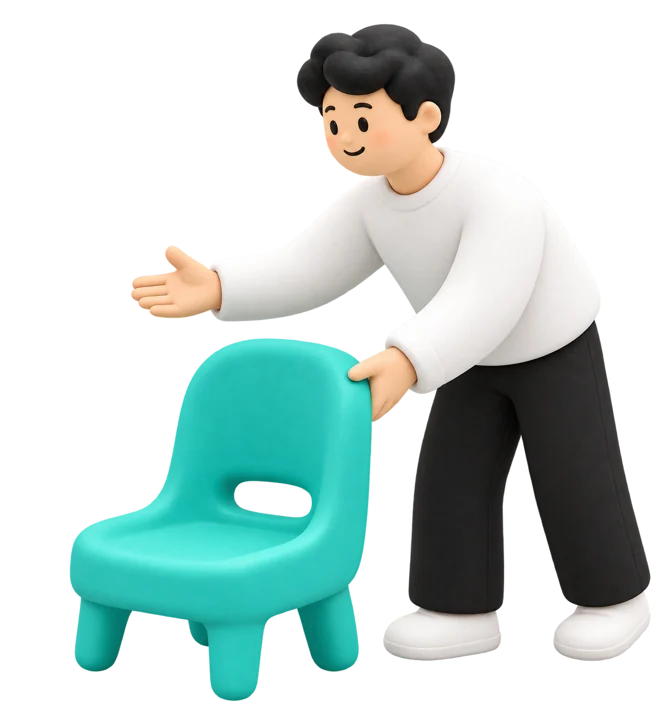
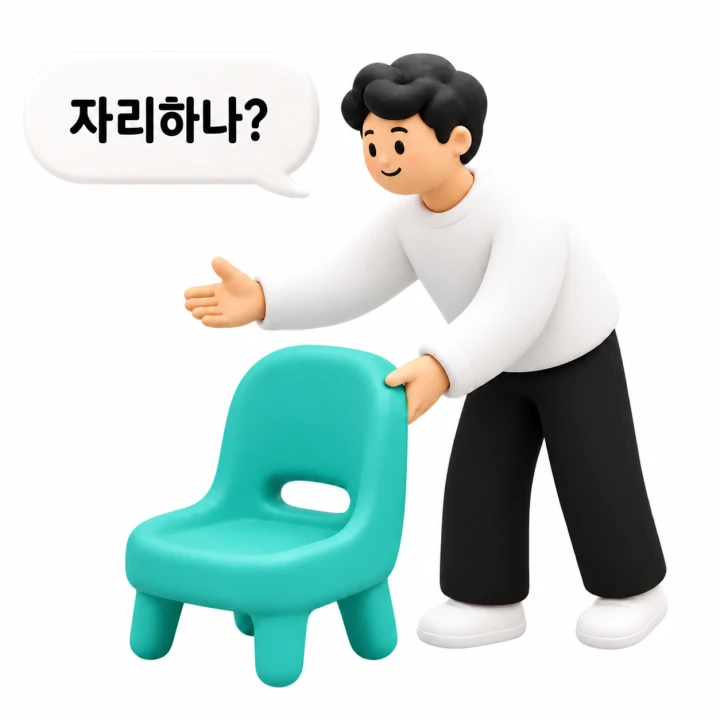
fix: 모집 상태 일러스트의 메시지와 크기를 맞춘다
Constraint: 말풍선 문구를 이미지에 포함하고 두 상태의 렌더 크기를 동일하게 유지
Confidence: high
Scope-risk: narrow
Directive: 모집 상태 이미지는 같은 720px 정사각형 캔버스와 동일한 CSS 크기를 유지
Tested: targeted Jest 2 tests; production webpack build; visual captures at 375, 768, 1280, and 1440
Not-tested: deployed environment

diff --git a/frontend/src/pages/groups/groups.css b/frontend/src/pages/groups/groups.css
@@ -567,40 +567,42 @@
 
 .group-recruitment-hero {
   position: relative;
-  isolation: isolate;
-  min-block-size: calc(var(--space-16) + var(--space-16) + var(--space-12));
+  display: grid;
+  min-block-size: calc(
+    var(--space-16) + var(--space-16) + var(--space-16) + var(--space-8)
+  );
+  align-content: start;
+  justify-items: end;
+  gap: var(--space-3);
   overflow: hidden;
 }
 
-.group-recruitment-hero__copy {
-  position: relative;
-  z-index: 1;
-  display: grid;
-  max-inline-size: calc(var(--space-16) + var(--space-12) + var(--space-8));
-  align-content: start;
-  justify-items: start;
-  gap: var(--space-3);
-  padding-block-start: var(--space-2);
-}
-
-.group-recruitment-hero .group-recruitment-hero__copy h2 {
-  margin: 0;
-  line-height: 1.35;
-  word-break: keep-all;
+.group-recruitment-hero .group-recruitment-hero__heading {
+  position: absolute;
+  width: 1px;
+  height: 1px;
+  padding: 0;
+  margin: -1px;
+  overflow: hidden;
+  clip: rect(0, 0, 0, 0);
+  white-space: nowrap;
+  border: 0;
 }
 
 .group-recruitment-hero__image {
-  position: absolute;
-  z-index: 0;
-  inset-block: 0;
-  inset-inline-end: 0;
   display: block;
-  inline-size: calc(var(--space-16) + var(--space-16) + var(--space-6));
-  block-size: 100%;
+  inline-size: calc(
+    var(--space-16) + var(--space-16) + var(--space-16) + var(--space-8)
+  );
+  block-size: auto;
+  aspect-ratio: 1;
   object-fit: contain;
-  object-position: right bottom;
   pointer-events: none;
   user-select: none;
+}
+
+.group-recruitment-hero__status {
+  justify-self: start;
 }
 
 .group-rail-card {
@@ -1375,26 +1377,15 @@
 
   .group-recruitment-hero {
     min-block-size: calc(
-      var(--space-16) + var(--space-16) + var(--space-16) + var(--space-16)
+      var(--space-16) + var(--space-16) + var(--space-16) + var(--space-16) +
+        var(--space-16)
     );
-  }
-
-  .group-recruitment-hero__copy {
-    max-inline-size: calc(
-      var(--space-16) + var(--space-16) + var(--space-16) + var(--space-8)
-    );
-    padding-block-start: var(--space-5);
-  }
-
-  .group-recruitment-hero .group-recruitment-hero__copy h2 {
-    font-size: var(--text-h1);
   }
 
   .group-recruitment-hero__image {
-    inset-inline-end: var(--space-5);
     inline-size: calc(
       var(--space-16) + var(--space-16) + var(--space-16) + var(--space-16) +
-        var(--space-16) + var(--space-16)
+        var(--space-16)
     );
   }
 }
@@ -1414,20 +1405,14 @@
   }
 
   .group-recruitment-hero {
-    min-block-size: calc(var(--space-16) + var(--space-16) + var(--space-12));
-  }
-
-  .group-recruitment-hero__copy {
-    max-inline-size: calc(var(--space-16) + var(--space-12) + var(--space-8));
-    padding-block-start: var(--space-2);
-  }
-
-  .group-recruitment-hero .group-recruitment-hero__copy h2 {
-    font-size: var(--text-h3);
+    min-block-size: calc(
+      var(--space-16) + var(--space-16) + var(--space-16) + var(--space-12)
+    );
   }
 
   .group-recruitment-hero__image {
-    inset-inline-end: 0;
-    inline-size: calc(var(--space-16) + var(--space-16) + var(--space-6));
+    inline-size: calc(
+      var(--space-16) + var(--space-16) + var(--space-16) + var(--space-12)
+    );
   }
 }

diff --git a/frontend/src/pages/groups/GroupDetailPage.jsx b/frontend/src/pages/groups/GroupDetailPage.jsx
@@ -377,24 +377,27 @@ function RecruitmentSummary({
 
 function RecruitmentHero({ empty = false }) {
   const illustration = empty ? recruitmentEmptyIllustration : recruitmentOpenIllustration;
+  const title = empty ? "자리없음" : "자리하나?";
 
   return (
     <div
       className={`group-recruitment-hero group-recruitment-hero--${empty ? "empty" : "open"}`}
     >
-      <div className="group-recruitment-hero__copy">
-        <h2>{empty ? "자리없다.." : "이 모임에 자리 하나?"}</h2>
-        {empty ? null : <StatusBadge tone="brand">모집 중</StatusBadge>}
-      </div>
+      <h2 className="group-recruitment-hero__heading">{title}</h2>
       <img
         alt=""
         aria-hidden="true"
         className="group-recruitment-hero__image"
         decoding="async"
-        height={empty ? 562 : 720}
+        height={720}
         src={illustration}
-        width={empty ? 720 : 658}
+        width={720}
       />
+      {empty ? null : (
+        <div className="group-recruitment-hero__status">
+          <StatusBadge tone="brand">모집 중</StatusBadge>
+        </div>
+      )}
     </div>
   );
 }

diff --git a/frontend/tests/pages/public/public-groups.test.jsx b/frontend/tests/pages/public/public-groups.test.jsx
@@ -268,7 +268,7 @@ it("Given an approved group member, when the detail page renders, then applicati
 it("Given an active recruitment, when group detail renders, then the invitation illustration frames the summary", () => {
   const { container } = renderAt("/groups/41", <GroupDetailPage />);
 
-  expect(screen.getByRole("heading", { name: "이 모임에 자리 하나?" })).toBeInTheDocument();
+  expect(screen.getByRole("heading", { name: "자리하나?" })).toBeInTheDocument();
   expect(container.querySelector(".group-recruitment-hero--open img")).toBeInTheDocument();
 });
 
@@ -281,7 +281,7 @@ it("Given no active recruitment, when group detail renders, then the fallen-chai
 
   const { container } = renderAt("/groups/41", <GroupDetailPage />);
 
-  expect(screen.getByRole("heading", { name: "자리없다.." })).toBeInTheDocument();
+  expect(screen.getByRole("heading", { name: "자리없음" })).toBeInTheDocument();
   expect(screen.queryByText("현재 진행 중인 모집이 없어요")).not.toBeInTheDocument();
   expect(container.querySelector(".group-recruitment-hero--empty img")).toBeInTheDocument();
 });
